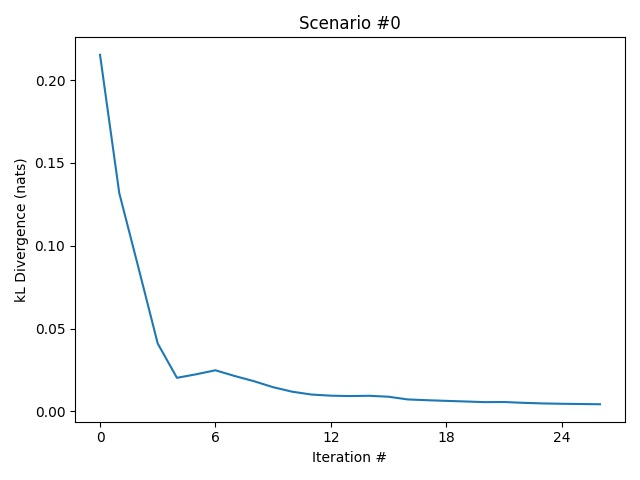
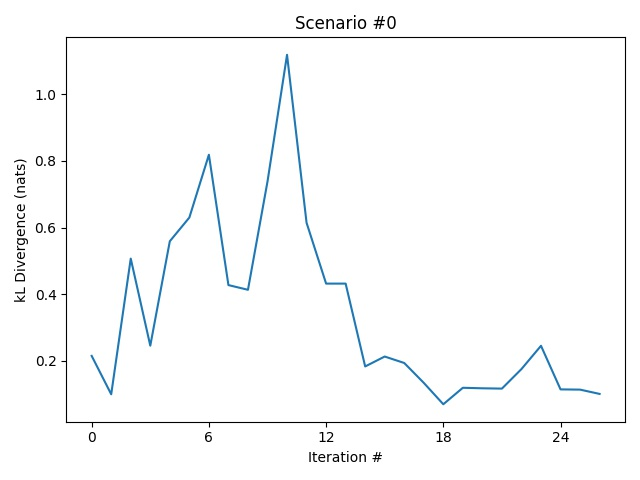
Simulators almost complete

diff --git a/server/simulators/bayesian.py b/server/simulators/bayesian.py
@@ -54,7 +54,10 @@ def shuffleFDs(fds):
     return random.shuffle(fds)
 
 def pTheta(theta, a, b):
-    return (math.pow(theta, (a-1)) * math.pow((1-theta), (b-1))) / sc.beta(a, b)
+    if a == 1 and b == 1:
+        return 0.5
+    else:
+        return ((a - 1) / (a + b - 2))
 
 def run(s, b_type, decision_type):
     p_max = 0.9 if b_type == 'informed' else 0.5
@@ -84,10 +87,13 @@ def run(s, b_type, decision_type):
 
     fd_metadata = dict()
     X = set()
+    X_per_FD = dict()
     
     for h in h_space:
+        X_per_FD[h['cfd']] = set()
         h['vio_pairs'] = set(tuple(vp) for vp in h['vio_pairs'])
         if b_type == 'informed':
+            # TODO: Change to deriving a and b from mode instead of mean
             mu = h['conf']
             a = 1
             b = a * (a - mu) / mu
@@ -97,6 +103,8 @@ def run(s, b_type, decision_type):
             b = 1
             theta = 0.5
         
+        # NOTE: This is a CONTINUOUS distribution, not discrete, so this is not right.
+        # TODO: Talk to Arash about this.
         p_theta = pTheta(theta, a, b)
         fd_m = FDMeta(
             fd=h['cfd'],
@@ -121,8 +129,10 @@ def run(s, b_type, decision_type):
                 if match is True and ((i, j) not in X and (j, i) not in X):
                     if i < j:
                         X.add((i, j))
+                        X_per_FD[h['cfd']].add((i, j))
                     else:
-                        X.add((j, i)) 
+                        X.add((j, i))
+                        X_per_FD[h['cfd']].add((j, i))
         fd_metadata[h['cfd']] = fd_m
 
     header = None
@@ -141,7 +151,6 @@ def run(s, b_type, decision_type):
     data = None
     feedback = None
     sample_X = list()
-    p_X = None
 
     try:
         print('before sample')
@@ -165,10 +174,6 @@ def run(s, b_type, decision_type):
                 elif type(data[row][j]) != 'str':
                     data[row][j] = str(data[row][j])
         
-        # p_X = (math.factorial(len(sample_X)) * math.factorial(len(X) - len(sample_X))) / math.factorial(len(X))
-        p_X = math.factorial(len(sample_X))
-        for i in range(0, len(sample_X)):
-            p_X /= (len(X) - i)
         print('prepped data')
     except Exception as e:
         print(e)
@@ -177,11 +182,17 @@ def run(s, b_type, decision_type):
     msg = ''
     iter_num = 0
 
-    pruned_rows_per_FD = dict()
+    pruned_rows = set()
+    pruned_pairs_per_FD = dict()
+    for fd in fd_metadata.keys():
+        pruned_pairs_per_FD[fd] = set()
+
     while msg != '[DONE]':
         iter_num += 1
         print('iter:', iter_num)
         feedbackMap = buildFeedbackMap(data, feedback, header)
+
+        p_X = 0
 
         # Bayesian behavior
         for fd, fd_m in fd_metadata.items():
@@ -191,7 +202,6 @@ def run(s, b_type, decision_type):
             successes_X = set()
             failures_X = set()
 
-            # NOTE: Conditions for adding to successes/failures needs verifying
             for x in sample_X:
                 if x not in fd_m.vio_pairs:
                     p_X_given_theta *= fd_m.theta
@@ -199,9 +209,22 @@ def run(s, b_type, decision_type):
                 else:
                     p_X_given_theta *= (1 - fd_m.theta)
                     failures_X.add(x)
-            print(p_X_given_theta)
-            print(fd_m.p_theta)
-            print(p_X)
+
+            print('successes:', len(successes_X))
+            print('failures:', len(failures_X))
+
+            p_X_given_theta_comp = 1
+            for x in sample_X:
+                if x in fd_m.vio_pairs:
+                    p_X_given_theta_comp *= fd_m.theta
+                else:
+                    p_X_given_theta_comp *= (1 - fd_m.theta)
+
+            p_X = (p_X_given_theta * fd_m.p_theta) + (p_X_given_theta_comp * (1 - fd_m.p_theta))
+
+            print('p(X | theta):', p_X_given_theta)
+            print('p(theta):', fd_m.p_theta)
+            print('p(X):', p_X)
             fd_m.p_theta = (p_X_given_theta * fd_m.p_theta) / p_X
             fd_m.p_theta_history.append(fd_m.p_theta)
             fd_m.alpha += len(successes_X)
@@ -211,26 +234,58 @@ def run(s, b_type, decision_type):
             fd_m.theta = fd_m.alpha / (fd_m.alpha + fd_m.beta)
             fd_m.theta_history.append(fd_m.theta)
 
-            # Step 2: mark errors according to new beliefs
-            for row in data.keys():
-                p_t_in_C_given_theta = 1
-                for x in sample_X:
-                    if row in x:
-                        p_t_in_C_given_theta *= fd_m.theta
-                    else:
-                        p_t_in_C_given_theta *= (1 - fd_m.theta)
-                # print(p_t_in_C_given_theta)
-                if decision_type == 'coin-flip':    # weighted coin flip-based decisions
-                    decision = np.random.binomial(1, p_t_in_C_given_theta)
-                else:   # threshold-based decisions
-                    decision = 1 if p_t_in_C_given_theta >= p_max else 0
-                if decision == 0:   # user thinks tuple is NOT clean
-                    if fd not in pruned_rows_per_FD.keys() or row not in pruned_rows_per_FD[fd]:
-                        for rh in fd_m.rhs:
-                            feedbackMap[row][rh] = True
-                else:   # user thinks tuple IS clean
-                    for rh in fd_m.rhs:
-                        feedbackMap[row][rh] = False
+        # Step 2: mark errors according to new beliefs
+        all_p_thetas_sum = sum([fd_m.p_theta for fd_m in fd_metadata.values()])
+        print('sum over all p(theta)\'s:', all_p_thetas_sum)
+        for row in data.keys():
+            p_t_in_C_given_X = 0
+            # for fd, fd_m in fd_metadata.items():      # NOTE: comment out temporarily
+            fd_m = fd_metadata[target_fd]
+
+            # for row in data.keys():
+                # print(sample_X)
+                # print(row)
+                # if len([x for x in sample_X if int(row) in x]) > 0:
+                    # print('in a pair')
+                    # p_t_in_C_given_theta = 1
+                    # for x in sample_X:
+                    #     if int(row) in x:
+                    #         p_t_in_C_given_theta *= fd_m.theta
+                    #     else:
+                    #         p_t_in_C_given_theta *= (1 - fd_m.theta)
+                    # p_t_in_C_given_theta = 
+                    # print(p_t_in_C_given_theta)
+                # p_t_in_C_given_theta = 1 if len([x for x in sample_X if x in X_per_FD[fd] and int(row) in x]) > 0 else 0
+                # p_t_in_C_given_X += p_t_in_C_given_theta * fd_m.p_theta
+
+            print([x for x in sample_X if x in X_per_FD[target_fd] and int(row) in x])
+            p_t_in_C_given_theta = fd_m.p_theta if len([x for x in sample_X if x in X_per_FD[target_fd] and int(row) in x]) else (1 - fd_m.p_theta)
+            p_t_in_C_given_X = p_t_in_C_given_theta * (fd_m.p_theta / all_p_thetas_sum)
+            
+            print('p(t in C | X):', p_t_in_C_given_X)
+            
+            if decision_type == 'coin-flip':    # weighted coin flip-based decisions
+                decision = np.random.binomial(1, p_t_in_C_given_X)
+            else:   # threshold-based decisions
+                decision = 1 if p_t_in_C_given_X >= p_max else 0
+
+            # TODO: Talk to Arash about this part           
+            if decision == 0:   # user thinks tuple is NOT clean
+                if row not in pruned_rows and len([x for x in pruned_pairs_per_FD[target_fd] if row in x]) == 0:
+                    for rh in feedbackMap[row].keys():
+                        feedbackMap[row][rh] = True
+                    pruned_rows.add(row)
+                    for i in [x for x in X_per_FD[target_fd] if row in x]:
+                        pruned_pairs_per_FD[target_fd].add(i)
+                    
+            else:   # user thinks tuple IS clean
+                for rh in feedbackMap[row].keys():
+                    feedbackMap[row][rh] = False
+                if row in pruned_rows:
+                    pruned_rows.remove(row)
+                    for i in [x for x in X_per_FD[target_fd] if row in x]:
+                        pruned_pairs_per_FD[target_fd].remove(i)
+
 
         feedback = dict()
         for f in feedbackMap.keys():

diff --git a/server/helpers.py b/server/helpers.py
@@ -68,24 +68,21 @@ def interpretFeedback(s_in, feedback, X, sample_X, project_id, target_fd=None):
 
     # Remove marked cells from consideration
     print(feedback)
+    print('about to check')
     pruned_rows = list()
     for idx in feedback.index:
         for col in feedback.columns:
-            if feedback.at[idx, col] is True:
+            if bool(feedback.at[idx, col]) is True:
                 pruned_rows.append(idx)
                 break
 
-    pruned_sample_X = sample_X
+    print(sample_X)
     for row in pruned_rows:
-        pruned_sample_X = filter(lambda x: row not in x, pruned_sample_X)
+        sample_X = {x for x in sample_X if int(row) not in x}
+        print(sample_X)
 
     print(len(X))
-    print(len(pruned_sample_X))
-
-    # p_sample_X = (math.factorial(len(pruned_sample_X)) * math.factorial(len(X) - len(pruned_sample_X))) / math.factorial(len(X))
-    p_sample_X = math.factorial(len(pruned_sample_X))
-    for i in range(0, len(pruned_sample_X)):
-        p_sample_X /= (len(X) - i)
+    print(len(sample_X))
 
     # Calculate P(X | \theta_h) for each FD
     for fd, fd_m in fd_metadata.items():
@@ -94,13 +91,25 @@ def interpretFeedback(s_in, feedback, X, sample_X, project_id, target_fd=None):
         p_X_given_theta = 1
         successes_X = set()
         failures_X = set()
-        for x in pruned_sample_X:
+        for x in sample_X:
             if x not in fd_m.vio_pairs:
                 p_X_given_theta *= fd_m.theta
                 successes_X.add(x)
             else:
                 p_X_given_theta *= (1 - fd_m.theta)
                 failures_X.add(x)
+
+        print('successes:', len(successes_X))
+        print('failures:', len(failures_X))
+
+        p_X_given_theta_comp = 1
+        for x in sample_X:
+            if x in fd_m.vio_pairs:
+                p_X_given_theta_comp *= fd_m.theta
+            else:
+                p_X_given_theta_comp *= (1 - fd_m.theta)
+        
+        p_sample_X = (p_X_given_theta * fd_m.p_theta) + (p_X_given_theta_comp * (1 - fd_m.p_theta))
         
         # Calculate P(\theta_h | X) for each FD using previous p(\theta_h) and p(X)
         print(p_X_given_theta)
@@ -120,7 +129,6 @@ def interpretFeedback(s_in, feedback, X, sample_X, project_id, target_fd=None):
 # BUILD SAMPLE
 def buildSample(data, X, sample_size, project_id, current_iter, current_time):
     fd_metadata = pickle.load( open('./store/' + project_id + '/fd_metadata.p', 'rb') )
-    # modeling_metadata = pickle.load( open('./store/' + project_id + '/modeling_metadata.p', 'rb') )
     start_time = pickle.load( open('./store/' + project_id + '/start_time.p', 'rb') )
 
     elapsed_time = current_time - start_time
@@ -128,14 +136,7 @@ def buildSample(data, X, sample_size, project_id, current_iter, current_time):
     s_index, sample_X = returnTuples(data, X, sample_size)
     s_out = data.loc[s_index, :]
 
-    # p_sample_X = (math.factorial(len(sample_X)) * math.factorial(len(X) - len(sample_X))) / math.factorial(len(X))
-
-    # modeling_metadata['X'].append(StudyMetric(iter_num=current_iter, value=sample_X, elapsed_time=elapsed_time))
-    # modeling_metadata['p_X'].append(StudyMetric(iter_num=current_iter, value=p_sample_X, elapsed_time=elapsed_time))
-
     print('IDs of tuples in next sample:', s_out.index)
-
-    # pickle.dump( modeling_metadata, open('./store/' + project_id + '/modeling_metadata.p', 'wb') )
     
     return s_out, sample_X
 

diff --git a/server/plot-sims.py b/server/plot-sims.py
@@ -34,27 +34,42 @@ def pTheta(theta, a, b):
 def plot_sims(project_id, x_axis):
     user_fd_metadata = pickle.load( open('./store/' + project_id + '/simulated_user_fd_metadata.p', 'rb') )
     system_fd_metadata = pickle.load( open('./store/' + project_id + '/fd_metadata.p', 'rb') )
+    current_iter = pickle.load( open('./store/' + project_id + '/current_iter.p', 'rb') )
     with open('./store/' + project_id + '/project_info.json', 'r') as f:
         project_info = json.load(f)
     scenario_id = project_info['scenario_id']
     print(scenario_id)
 
-    kL = list()
+    kL = pd.DataFrame(columns=range(0, current_iter+1), index=list(user_fd_metadata.keys()))
     target_fd = project_info['scenario']['target_fd']
-    user_fd_m = user_fd_metadata[target_fd]
-    system_fd_m = system_fd_metadata[target_fd]
-    for i in range(0, len(user_fd_m.alpha_history)):
-        user_distr = list()
-        system_distr = list()
-        for step in np.arange(0, 1.0, 0.05):
-            print(step)
-            print(user_fd_m.alpha_history[i])
-            print(user_fd_m.beta_history[i])
-            print(system_fd_m.alpha_history[i])
-            print(system_fd_m.beta_history[i])
-            user_distr.append(pTheta(step, user_fd_m.alpha_history[i], user_fd_m.beta_history[i]))
-            system_distr.append(pTheta(step, system_fd_m.alpha_history[i], system_fd_m.beta_history[i]))
-        kL.append(st.entropy(pk=user_distr, qk=system_distr))
+    user_fd_metadata = {k: v for k, v in user_fd_metadata.items() if k == target_fd}
+    system_fd_m = {k: v for k, v in system_fd_metadata.items()}
+    for fd in user_fd_metadata.keys():
+        fd_kL = list()
+        for i in range(0, len(user_fd_metadata[fd].alpha_history)):
+            user_distr = list()
+            system_distr = list()
+            print('iter:', i)
+            print(user_fd_metadata[fd].alpha_history[i])
+            print(user_fd_metadata[fd].beta_history[i])
+            print(system_fd_metadata[fd].alpha_history[i])
+            print(system_fd_metadata[fd].beta_history[i], '\n')
+            for step in np.arange(0, 1.0, 0.05):
+                # print(step)
+                # print(user_fd_metadata[fd].alpha_history[i])
+                # print(user_fd_metadata[fd].beta_history[i])
+                # print(system_fd_metadata[fd].alpha_history[i])
+                # print(system_fd_metadata[fd].beta_history[i])
+                user_distr.append(pTheta(step, user_fd_metadata[fd].alpha_history[i], user_fd_metadata[fd].beta_history[i]))
+                system_distr.append(pTheta(step, system_fd_metadata[fd].alpha_history[i], system_fd_metadata[fd].beta_history[i]))
+            fd_kL.append(st.entropy(pk=user_distr, qk=system_distr))
+        print(fd_kL)
+        kL.loc[fd] = fd_kL
+
+    print(kL)
+
+    avg_kL = kL.mean(axis=0, skipna=True).tolist()
+    print(avg_kL)
 
     fig, ax1 = plt.subplots()
     ax1.set_ylabel('kL Divergence (nats)')
@@ -63,7 +78,7 @@ def plot_sims(project_id, x_axis):
 
     if x_axis == 'iter':
         ax1.set_xticks(np.arange(0, 36, 6.0))
-    ax1.plot([i for i in range(0, len(kL))], kL)
+    ax1.plot([i for i in range(0, len(avg_kL))], avg_kL)
     fig.tight_layout()
     fig.savefig('./plots/sim-plot-kL-' + scenario_id + '-' + x_axis + '.jpg')
     plt.clf()

diff --git a/server/api.py b/server/api.py
@@ -161,7 +161,7 @@ class Sample(Resource):
     def post(self):
         project_id = request.form.get('project_id')
         if project_id is None:
-            print(request.data)
+            # print(request.data)
             project_id = json.loads(request.data)['project_id']
         sample_size = 10
         with open('./store/' + project_id + '/project_info.json') as f:
@@ -290,14 +290,14 @@ class Clean(Resource):
         project_id = request.form.get('project_id')
         if project_id is None:
             req = json.loads(request.data)
-            print(req)
+            # print(req)
             project_id = req['project_id']
             feedback = req['feedback']
         else:
             feedback = json.loads(request.form.get('feedback'))
 
         print(project_id)
-        print(feedback)
+        # print(feedback)
 
         feedback = pd.DataFrame.from_dict(feedback, orient='index')
         sample_size = 10
